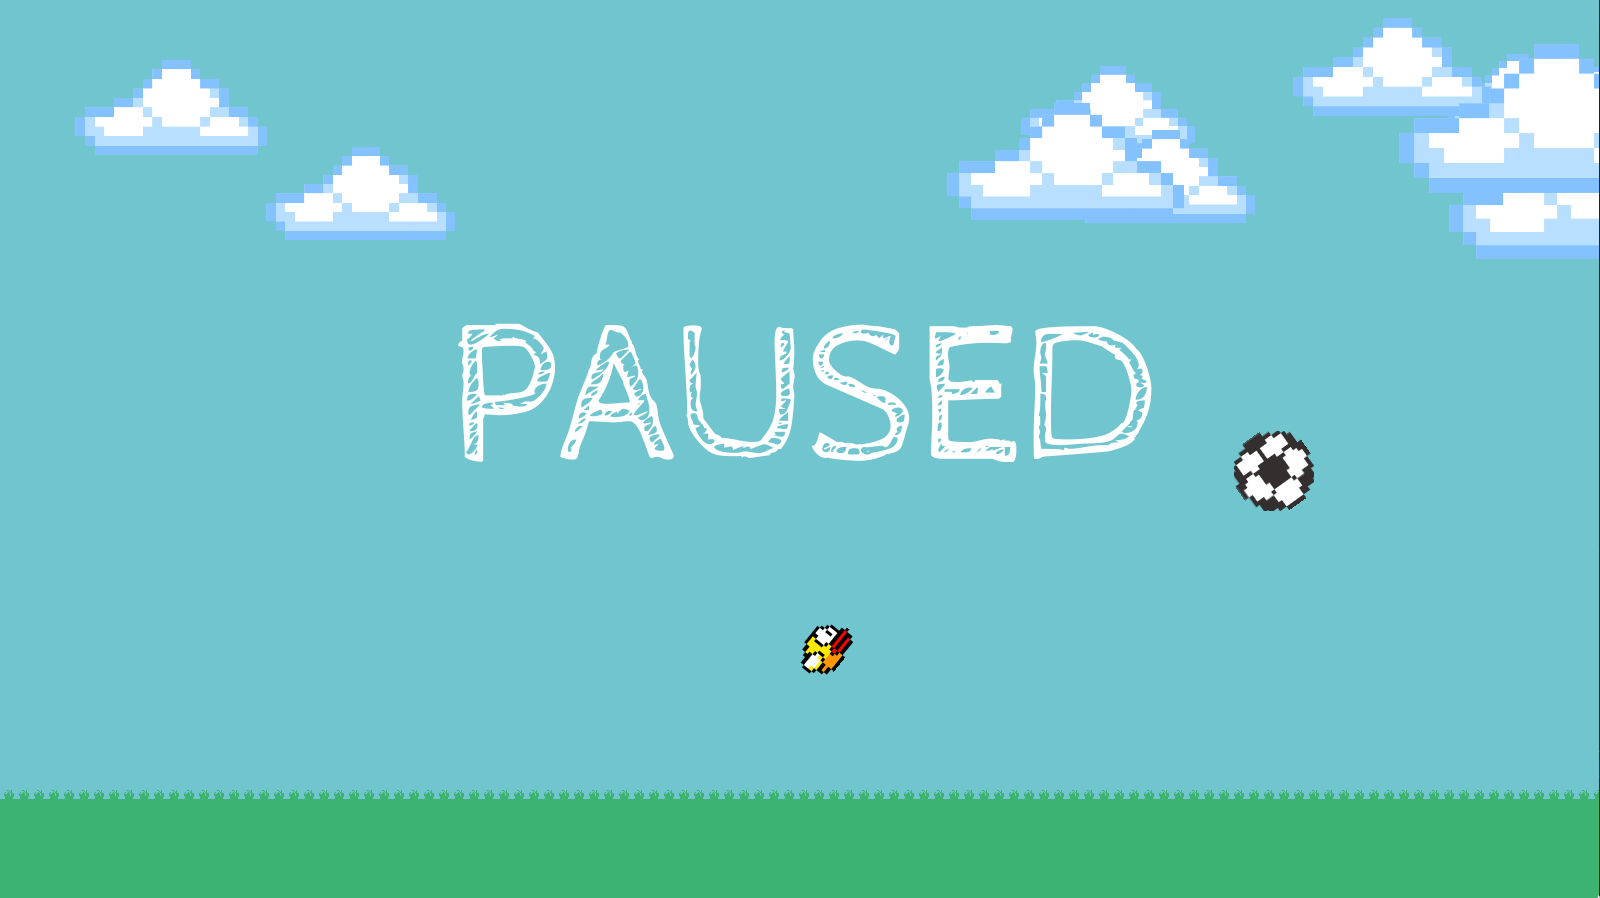
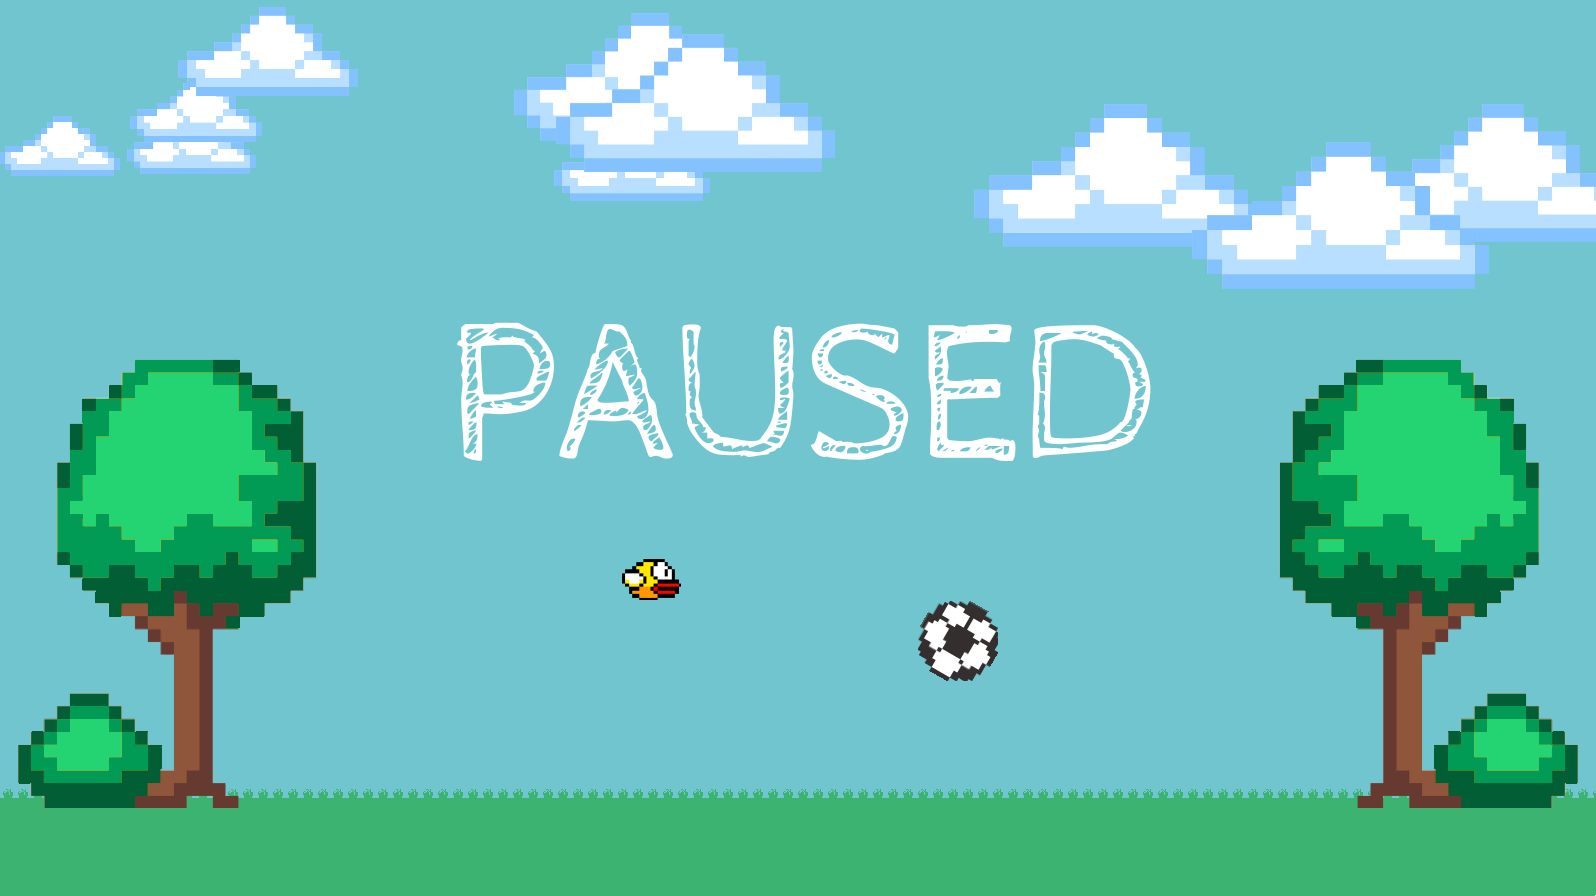
added trees, implemented better physiks

diff --git a/src/background.py b/src/background.py
@@ -5,12 +5,12 @@ from src.config import config
 
 class Background():
 
-    def __init__(self,display):
-        self.display=display
+    game_width=config['game']['width']
+    game_floor=config['game']['floor']
+    game_height=config['game']['height']
 
-        self.game_width=config['game']['width']
-        self.game_floor=config['game']['floor']
-        self.game_height=config['game']['height']
+    def __init__(self,display):
+        self.display=display  
     
         self.cloud_intensity=config['background']['cloud_intensity']
         self.cloud_frequency=config['background']['cloud_frequency']
@@ -25,6 +25,9 @@ class Background():
 
         self.bushes=[]
         #self.generate_bushes()
+
+        self.trees=[]
+        self.generate_trees()
 
     def draw(self):
         self.display.fill(config['color']['sky'])
@@ -41,6 +44,8 @@ class Background():
         for bush in self.bushes:
             bush.draw()
         
+        for tree in self.trees:
+            tree.draw()
     
     
     def generate_clouds(self):  
@@ -56,10 +61,22 @@ class Background():
             self.grass.append(grass)
 
     def generate_bushes(self):    
-        for i in range(-10,300,50):
+        for i in range(self.bush_intensity):
             bush=Bush(self.display)
             bush.rect.left=i
             self.bushes.append(bush)
+        
+    def generate_trees(self):
+        tree1=Tree(self.display)
+        tree1.rect.left=config['background']['tree_offset']
+        tree1.image=pygame.transform.flip(tree1.image,True,False)
+        self.trees.append(tree1)
+
+        tree2=Tree(self.display)
+        tree2.rect.right=self.game_width-config['background']['tree_offset']
+
+        self.trees.append(tree2)
+        
 
 
 class Cloud(Background):    
@@ -96,7 +113,7 @@ class Grass(Background):
 
         self.image=pygame.transform.scale(pygame.image.load('src/img_res/grass.png').convert_alpha(),(int(self.w),int(self.h)))
         self.rect=pygame.Rect(self.image.get_rect())
-        self.rect.bottom=800
+        self.rect.bottom=Background.game_floor
 
     def draw(self):
         self.display.blit(self.image,self.rect)
@@ -105,7 +122,7 @@ class Bush(Background):
     def __init__(self,display):
         self.display=display
 
-        self.sizefactor=random.randint(50,100)/100
+        self.sizefactor=1#random.randint(50,100)/100
 
         self.w=int(config['background']['max_bush']['width']*self.sizefactor)
         self.h=int(config['background']['max_bush']['height']*self.sizefactor)
@@ -113,7 +130,22 @@ class Bush(Background):
         self.image=pygame.transform.scale(pygame.image.load('src/img_res/bush.png').convert_alpha(),(int(self.w),int(self.h)))
         self.rect=pygame.Rect(self.image.get_rect())
         
-        self.rect.bottom=810
+        self.rect.bottom=self.game_floor+10
+
+    def draw(self):
+        self.display.blit(self.image,self.rect)
+
+class Tree(Background):
+    def __init__(self,display):
+        self.display=display
+
+        self.w=config['background']['tree']['width']
+        self.h=config['background']['tree']['height']
+
+        self.image=pygame.transform.scale(pygame.image.load('src/img_res/tree.png').convert_alpha(),(int(self.w),int(self.h)))
+        self.rect=pygame.Rect(self.image.get_rect())
+        
+        self.rect.bottom=self.game_floor+10
 
     def draw(self):
         self.display.blit(self.image,self.rect)

diff --git a/src/bird.py b/src/bird.py
@@ -31,19 +31,29 @@ class Bird(pygame.sprite.Sprite):
         self.display.blit(pygame.transform.rotozoom(self.image, self.vy*(1 if self.bird_flipped else -1),1),self.rect)        
 
     def physiks(self):   
-        self.rect.x+=self.vx
-        self.vx+=self.ax
+        
         self.vx=self.vx*0.8
-
-        self.rect.y+=self.vy
+        self.vx+=self.ax
+        self.rect.x+=self.vx
+        
+        
         self.vy+=self.ay
-        self.vy=self.vy
+        self.rect.y+=self.vy
 
-        if(self.rect.right>=self.game_width or self.rect.left<=0):
-            self.vx=-self.vx+self.ax
+        if(self.rect.right>self.game_width or self.rect.left<0):
+            self.vx=-self.vx
+            
 
-        if(self.rect.bottom>=self.game_floor or self.rect.top<=0):
-            self.vy=-self.vy+self.ay
+        if((self.rect.bottom>self.game_floor or self.rect.top<0)):
+            self.vy=-self.vy
+            
+        self.rect.left = self.clip(self.rect.left, 0, self.game_width)
+        self.rect.right = self.clip(self.rect.right, 0, self.game_width)        
+        self.rect.top = self.clip(self.rect.top, 0, self.game_floor)
+        self.rect.bottom = self.clip(self.rect.bottom, 0, self.game_floor)                
+
+    def clip(self,val, minval, maxval):
+        return min(max(val, minval), maxval)
 
             
     

diff --git a/src/ball.py b/src/ball.py
@@ -34,17 +34,28 @@ class Ball(pygame.sprite.Sprite):
         
 
     def physiks(self):   
-        self.rect.x+=self.vx
+
         self.vx+=self.ax
-
-        self.rect.y+=self.vy
+        self.rect.x+=self.vx
+        
+        
         self.vy+=self.ay
+        self.rect.y+=self.vy
 
-        if(self.rect.right>=self.game_width or self.rect.left<=0):
-            self.vx=-self.vx+self.ax
+        if(self.rect.right>self.game_width or self.rect.left<0):
+            self.vx=-self.vx
+            
 
-        if(self.rect.bottom>=self.game_floor or self.rect.top<=0):
-            self.vy=-self.vy+self.ay
+        if((self.rect.bottom>self.game_floor or self.rect.top<0)):
+            self.vy=-self.vy
+            
+        self.rect.left = self.clip(self.rect.left, 0, self.game_width)
+        self.rect.right = self.clip(self.rect.right, 0, self.game_width)        
+        self.rect.top = self.clip(self.rect.top, 0, self.game_floor)
+        self.rect.bottom = self.clip(self.rect.bottom, 0, self.game_floor)                
+
+    def clip(self,val, minval, maxval):
+        return min(max(val, minval), maxval)
 
 
     def rot_center(self,image, angle):

diff --git a/src/config.py b/src/config.py
@@ -19,7 +19,7 @@ config = {
     },
     'bird': {
         'start_pos_x':500,
-        'start_pos_y':300,
+        'start_pos_y':200,
         'width': 60,
         'height': 42,
         'velocity_x':30,
@@ -41,9 +41,10 @@ config = {
     'background': {
         'cloud_intensity':10,
         'cloud_frequency':200,
-        'bush_intensity':50,
+        'bush_intensity':2,
         'bush_frequency':1,
         'cloud_height':150,
+        'tree_offset':20,
         'max_cloud': {
             'width':300,
             'height':150,
@@ -56,6 +57,10 @@ config = {
         'max_bush':{
             'width':80,
             'height':60
+        },
+        'tree':{
+            'width':300,
+            'height':450
         }
     },
 

diff --git a/src/game.py b/src/game.py
@@ -75,7 +75,6 @@ class Game:
 
             pygame.display.update()
 
-
             clock.tick(config['game']['fps'])
 
     def pause(self):

diff --git a/README.md b/README.md
@@ -12,7 +12,7 @@ For reference on key mappings, click [here](https://www.pygame.org/docs/ref/key.
 
 To play, run
 ~~~
-python PATH_TO_FlapPYball/FlapPYball.py
+python FlapPYball.py
 ~~~
 
 A few things to remember:
